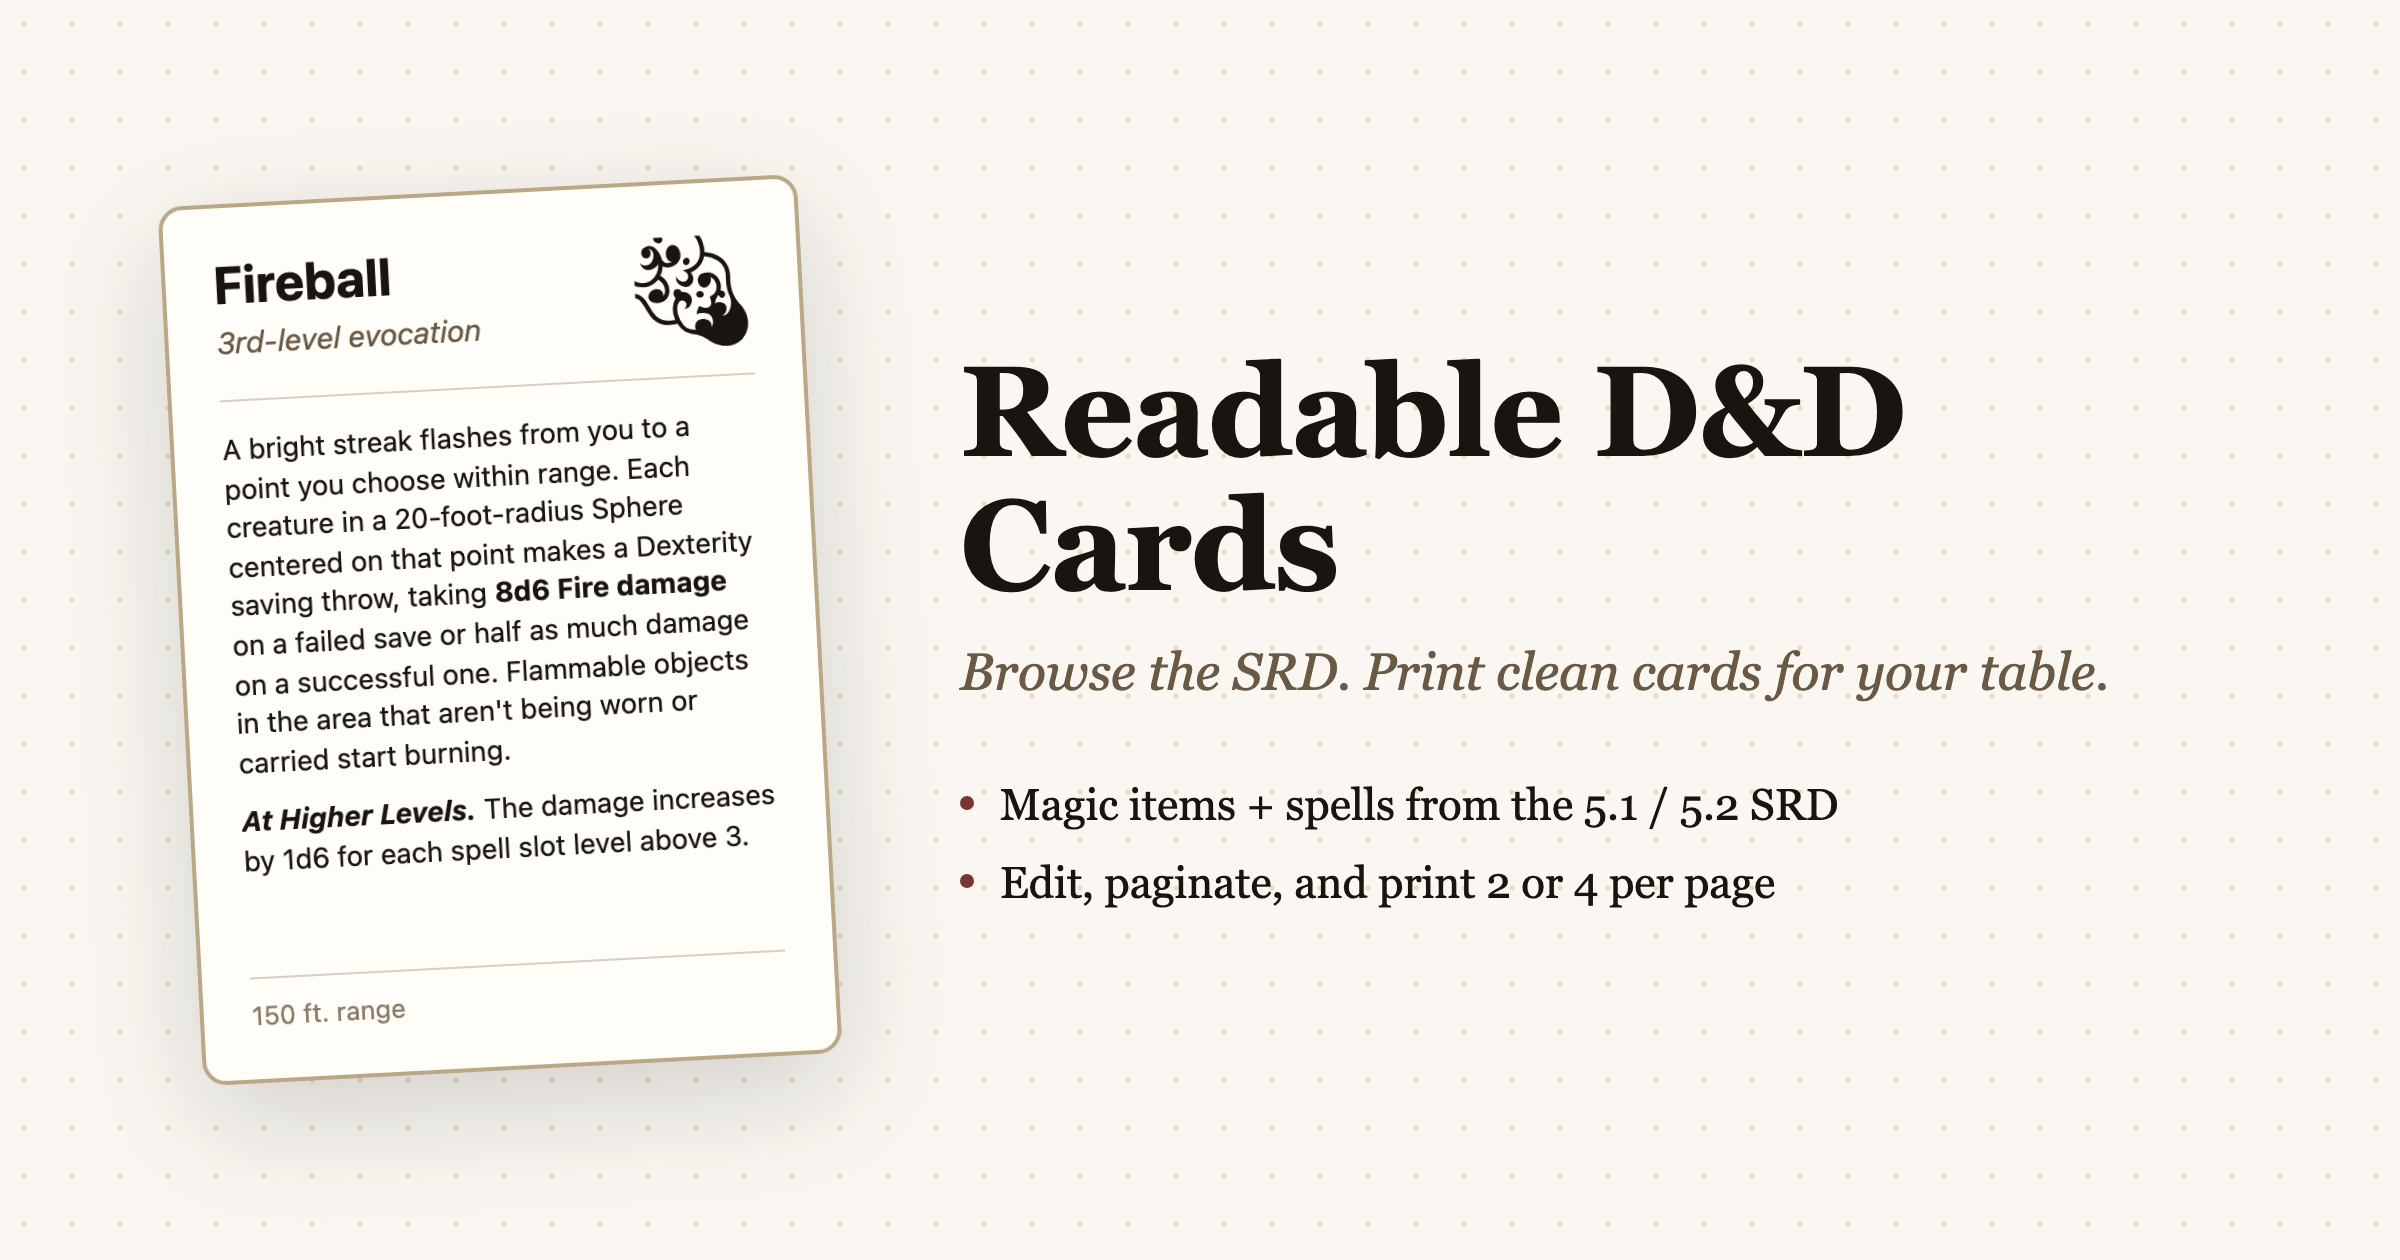
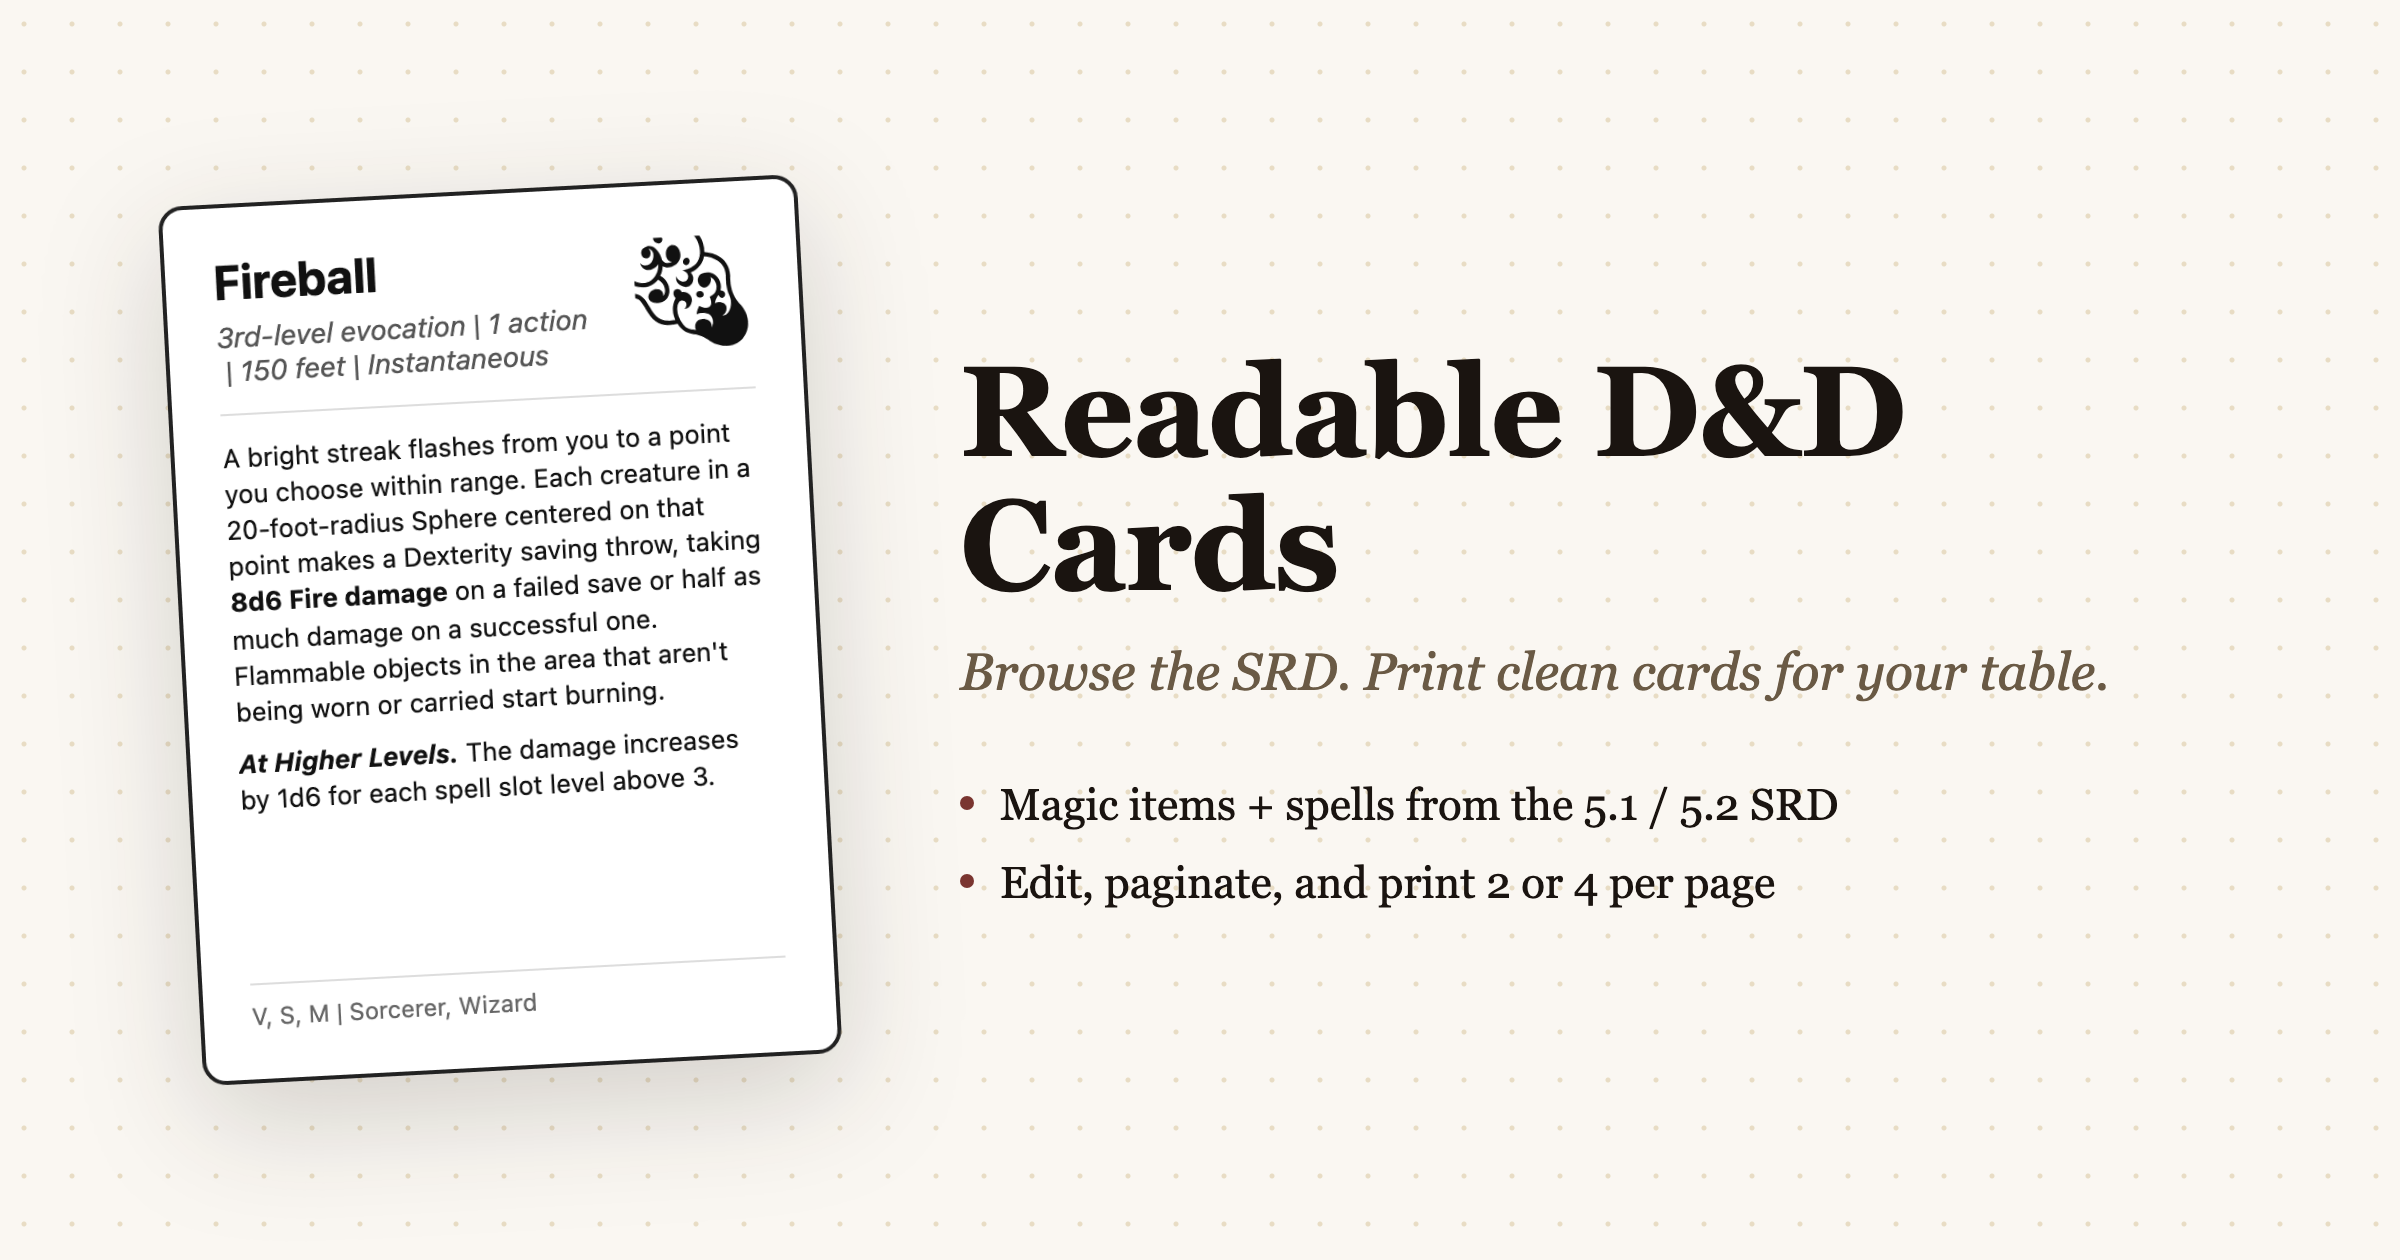
fix(brand): make OG card faithful to real Card render
Code-review feedback flagged that the OG card had design drift while
its header comment promised faithfulness — border was tan instead of
the print-token #222, header showed only 1 of 4 real tags, footer had
invented copy ("150 ft. range") instead of components/classes.

Switch card-internal colors to the --print-color-* values (paper #fff,
ink #111, muted ink #555/#666, borders #ddd/#222) so the OG looks like
a card from the running app. Populate header tags as spellDetailToCard()
would (3rd-level evocation | 1 action | 150 feet | Instantaneous) and
footer as V, S, M | Sorcerer, Wizard, using the same " | " separator
markup pattern as Card.module.css. Update the script header comment to
be accurate about what's faithful vs. what's stylized for the hero shot.

Changed region(s): [[0.0625, 0.1548, 0.3438, 0.7119], [0.0938, 0.7429, 0.3125, 0.8667], [0.1875, 0.1238, 0.3125, 0.1548]]

diff --git a/scripts/generate-og.ts b/scripts/generate-og.ts
@@ -1,15 +1,24 @@
 // Generates public/og.png for social-media link previews.
 //
 // HEADS-UP: this is a hand-rolled facsimile of <Card>. The HTML/CSS below
-// mirrors src/cards/Card.module.css visually but does NOT import it — running
-// in node + Playwright via setContent() avoids the dev-server / Supabase
-// auth / route-mocking dance, but means the OG card will drift if Card's
-// styling changes (border, divider, typography, spacing, footer layout) or if
-// the design tokens move. When you redesign cards, eyeball this against the
-// current <Card> output and update the inline CSS to match. Card body text
-// is verbatim 2024 SRD (data/srd-2024-spells.raw.json -> Fireball).
+// mirrors src/cards/Card.module.css (and uses the same --print-color-* values
+// from src/index.css) but does NOT import any of it. Running in node +
+// Playwright via setContent() avoids the dev-server / Supabase auth /
+// route-mocking dance, but means the OG card will drift if the print tokens
+// move or if Card's structure changes. When you redesign cards, eyeball this
+// against the running <Card> and update inline values to match.
 //
-// Run: npx tsx scripts/generate-og.ts
+// What's faithful to a real card: print-token colors (#fff paper, #111 ink,
+// #555/#666 muted ink, #ddd/#222 borders), header tags + footer tags shape
+// derived as spellDetailToCard() would (4 header tags joined by " | "; V/S/M
+// + classes in the footer), and body text via the project's
+// `***At Higher Levels.***` formatter from src/api/mappers/spells.ts.
+// What's stylized for OG: card width is 320px (instead of the real 3.75in
+// print size), title/tag fonts are scaled up for hero-shot legibility, and
+// one descriptive clause was removed from the body for layout fit. Card body
+// text otherwise comes verbatim from data/srd-2024-spells.raw.json -> Fireball.
+//
+// Run: npx tsx scripts/generate-og.ts (or `npm run gen:og`).
 
 import { mkdirSync } from "node:fs";
 import { dirname, resolve } from "node:path";
@@ -20,9 +29,7 @@ import { chromium } from "@playwright/test";
 const __dirname = dirname(fileURLToPath(import.meta.url));
 const out = resolve(__dirname, "../public/og.png");
 
-const iconWidth = iconFireball.width ?? 512;
-const iconHeight = iconFireball.height ?? 512;
-const iconSvg = `<svg xmlns="http://www.w3.org/2000/svg" viewBox="0 0 ${iconWidth} ${iconHeight}" fill="currentColor">${iconFireball.body}</svg>`;
+const iconSvg = `<svg xmlns="http://www.w3.org/2000/svg" viewBox="0 0 ${iconFireball.width} ${iconFireball.height}" fill="currentColor">${iconFireball.body}</svg>`;
 
 const html = `<!doctype html>
 <html lang="en">
@@ -59,9 +66,9 @@ const html = `<!doctype html>
     height: 440px;
     padding: 24px;
     box-sizing: border-box;
-    background: #fffdf8;
-    color: #1a1410;
-    border: 2px solid #b8a888;
+    background: #fff;
+    color: #111;
+    border: 2px solid #222;
     border-radius: 12px;
     display: flex;
     flex-direction: column;
@@ -73,49 +80,53 @@ const html = `<!doctype html>
     margin: 0 0 -2px 8px;
     width: 60px;
     height: 60px;
-    color: #1a1410;
+    color: #111;
   }
   .card .icon svg { width: 100%; height: 100%; display: block; }
   .card .title {
     margin: 0 0 4px;
-    font-size: 26px;
+    font-size: 24px;
     font-weight: 700;
     line-height: 1.15;
   }
   .card .header-tags {
     display: block;
-    font-size: 15px;
-    font-style: italic;
-    color: #6a5a45;
-    line-height: 1.2;
+    font-size: 14px;
+    color: #555;
+    line-height: 1.25;
+  }
+  .card .header-tag { font-style: italic; }
+  .card .header-tag + .header-tag::before {
+    content: " | ";
+    white-space: pre;
+    font-style: normal;
   }
   .card .divider {
     border: 0;
-    border-top: 1px solid #d9cfc1;
-    margin: 14px 0;
+    border-top: 1px solid #ddd;
+    margin: 12px 0;
   }
   .card .body {
-    font-size: 14px;
+    font-size: 13px;
     line-height: 1.4;
-    color: #1a1410;
+    color: #111;
     flex: 1;
     overflow: hidden;
   }
-  .card .body p { margin: 0 0 10px; }
+  .card .body p { margin: 0 0 8px; }
   .card .body p:last-child { margin-bottom: 0; }
-  .card .body em { font-style: italic; }
   .card .footer {
-    margin-top: 10px;
-    padding-top: 10px;
-    border-top: 1px solid #d9cfc1;
-    font-size: 13px;
-    color: #8a7a65;
+    margin-top: 8px;
+    padding-top: 8px;
+    border-top: 1px solid #ddd;
+    font-size: 12px;
+    color: #666;
     flex-shrink: 0;
-    display: flex;
-    align-items: baseline;
-    gap: 12px;
   }
-  .card .footer-right { margin-left: auto; }
+  .card .footer-tag + .footer-tag::before {
+    content: " | ";
+    white-space: pre;
+  }
 
   .text { flex: 1; color: #1a1410; }
   .text h1 {
@@ -160,7 +171,7 @@ const html = `<!doctype html>
       <div class="header">
         <div class="icon">${iconSvg}</div>
         <h3 class="title">Fireball</h3>
-        <span class="header-tags">3rd-level evocation</span>
+        <span class="header-tags"><span class="header-tag">3rd-level evocation</span><span class="header-tag">1 action</span><span class="header-tag">150 feet</span><span class="header-tag">Instantaneous</span></span>
       </div>
       <hr class="divider" />
       <div class="body">
@@ -168,7 +179,7 @@ const html = `<!doctype html>
         <p><strong><em>At Higher Levels.</em></strong> The damage increases by 1d6 for each spell slot level above 3.</p>
       </div>
       <div class="footer">
-        <span>150 ft. range</span>
+        <span class="footer-tag">V, S, M</span><span class="footer-tag">Sorcerer, Wizard</span>
       </div>
     </div>
   </div>